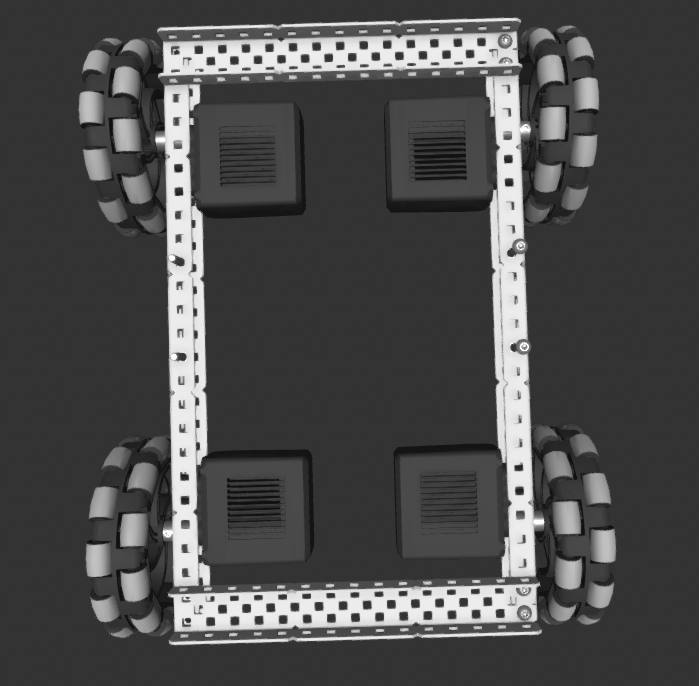
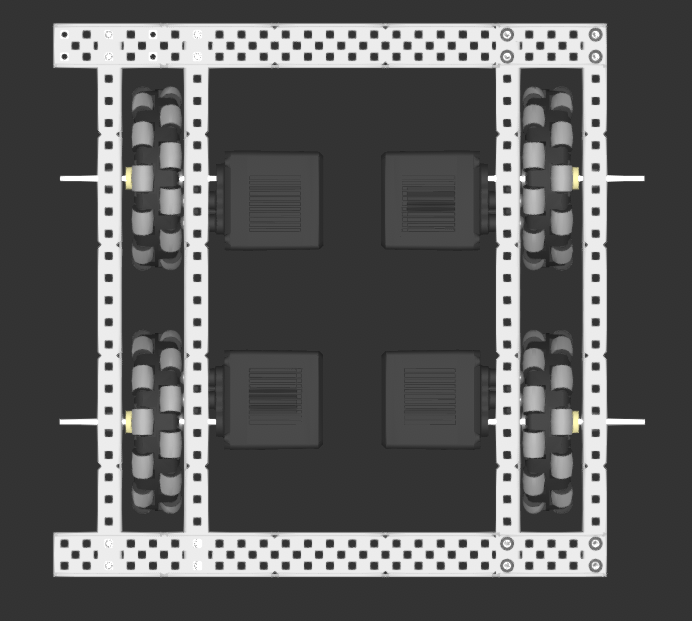
deploy: 9fec76319d22bc668e492e5dd11c9c1fd8bbfa05

Changed region(s): [[0.0607, 0.0, 0.9408, 0.9485]]

diff --git a/index.html b/index.html
@@ -28,7 +28,7 @@
 			onclick="document.getElementById('dialog-programming-0').showModal();"
 			data-set-completed="programming-0"
 		>
-			<h1>Programming the Drivetrain</h1>
+			<h1>Programming the Drivetrain</h1>
 		</article> <article
 			class="node"
 			id="node-building-0"
@@ -59,10 +59,16 @@
 	<form method="dialog">
 		<input class="close-button" type="submit" value="X" label="Close" />
 	</form>
-	<h1>Programming the Drivetrain</h1>
-	<p>In this document, we upload a basic program made with VexCode Pro V5 to a pre-built drivetrain to make the robot move with driver control! If you haven&#x27;t built the drivetrain already, refer to &#x27;Building a Drivetrain&#x27;.</p>
+	<h1>Programming the Drivetrain</h1>
+	<p>In this document, we upload a basic program to a pre-built drivetrain to make the robot move with driver control! If you haven&#x27;t built the drivetrain already, refer to &#x27;Building a Drivetrain&#x27;.</p>
 	<hr />
-	<div class="content"><h2>Step 1</h2>
+	<div class="content"><h2>Introduction</h2>
+<p>In this module, we program a drivetrain so that you can control it with the controller. We are going to do this with two different softwares: VEXCode Pro v5 (the official editor) and the VEX PROS API (an open-source, well-documented, highly functional API).</p>
+<p>If you plan on coding for a VEX competition and have some prior coding experience, I’d recommend skipping to the “PROS” section of this module, so that you know how to use that approach. In general, the PROS API definitely has more features and is more advanced than the official API. The documentation is also pretty impressive compared to the official editor.</p>
+<p>However, if you are a beginner to coding in general, I’d stick with the VEXCode Pro v5 approach for now. It’s a little easier to learn, and sets you up to learn the PROS API if you want to. Once you feel you can use the official editor a little bit, you can always come back to this module to learn the PROS approach (it’s really not that different at this level).</p>
+<p>Without further ado, let’s get going!</p>
+<h1>With VEXCode Pro v5</h1>
+<h2>Step 1</h2>
 <p>Gather materials:</p>
 <ul>
 <li>a computer with <a href="https://www.vexrobotics.com/vexcode/install/v5">VEXCode <strong><em>Pro</em></strong> v5</a> installed</li>
@@ -90,8 +96,17 @@ Select a port (doesn’t matter for now), then name the motor “left_motor” b
 <p><img src="img/programming/2-4-2.png" alt="motor configuration screen; renamed to “left_motor”" />
 <img src="img/programming/2-4-3.png" alt="left_motor connected to port 3, indicated with “3” icon" /></p>
 <p><br />
-Add another motor named “right_motor” with the same process outlined above. You should have two motors and a Controller in your “Robot Configuration” list.</p>
-<p><img src="img/programming/2-4-4.png" alt="Controller1, left_motor, and right_motor listed in “Robot Configuration”" /></p>
+Add another motor named “right_motor” with the same process outlined above. <strong>Reverse the direction of the motor</strong> by clicking the toggle switch (see image below). You should have two motors and a Controller in your “Robot Configuration” list.</p>
+<p><strong>If you have a 4 wheel drive, you have to configure two extra motors.</strong> Name them whatever you want; you will have to write code to match these names.</p>
+<p>It’s generally good practice to configure every motor individually rather than configuring a “motor group”; you can get more functionality.</p>
+<p><img src="img/programming/2-4-4.png" alt="motor reversed" />
+<img src="img/programming/2-4-5.png" alt="Controller1, left_motor, and right_motor listed in “Robot Configuration”" /></p>
+<h3>Coding Note: Why reverse motors?</h3>
+<p>On every v5 motor, you will see a plus icon with a circular direction indicated. This is the default positive orientation of the motor. When a positive percent value is passed to the motor, the motor will spin in the indicated direction by default.
+<img src="img/programming/2-4-6.png" alt="vex v5 motor with positive orientation indicator circled" /></p>
+<p>When you move a joystick forward, all wheels should spin in the same direction (forward). However, the positive orientations of the left wheels are actually in the <em>opposite direction</em> to the right wheels! This means that passing a positive percentage value to both sides will result in both sides spinning in opposite directions.</p>
+<p>We could just invert the percent value of the joystick (multiply by -1) and pass this inverted value to one side. However, a more elegant solution is to just “reverse” one side of the motors, thus reversing the positive orientation of one side. Now, a positive percentage value will spin both sides of the motor in the same direction (yay!).</p>
+<p>(exactly the same logic applies for negative percentage values as well)</p>
 <h2>Step 5</h2>
 <p>Locate the <code>main</code> function in the code. The function starts with <code>int main() {</code> and ends with a <code>}</code> character. Place your cursor inside the <code>main</code> function, after the <code>vexcodeInit();</code> command.</p>
 <p><img src="img/programming/2-5-1.png" alt="inside main() {, after vexcodeInit()" /></p>
@@ -104,6 +119,21 @@ Add another motor named “right_motor” with the same process outlined above. 
 <p>Your full <code>main.cpp</code> file should now look like this:</p>
 <table class="highlight-table"><tbody><tr><td class="hl-line" data-line="1">1</td><td>#<span class="hl-k">include</span> <span class="hl-s">"vex.h"</span></td></tr><tr><td class="hl-line" data-line="2">2</td><td></td></tr><tr><td class="hl-line" data-line="3">3</td><td><span class="hl-k">using</span> <span class="hl-k">namespace</span> vex;</td></tr><tr><td class="hl-line" data-line="4">4</td><td></td></tr><tr><td class="hl-line" data-line="5">5</td><td><span class="hl-k">float</span> drivetrain_dampening = <span class="hl-c">1</span>;</td></tr><tr><td class="hl-line" data-line="6">6</td><td></td></tr><tr><td class="hl-line" data-line="7">7</td><td><span class="hl-k">int</span> <span class="hl-en">main</span>() {</td></tr><tr><td class="hl-line" data-line="8">8</td><td>  <span class="hl-cmt">// Initializing Robot Configuration. DO NOT REMOVE!</span></td></tr><tr><td class="hl-line" data-line="9">9</td><td>  <span class="hl-en">vexcodeInit</span>();</td></tr><tr><td class="hl-line" data-line="10">10</td><td>  <span class="hl-k">while</span> (<span class="hl-c">true</span>) {</td></tr><tr><td class="hl-line" data-line="11">11</td><td>    left_motor.<span class="hl-en">spin</span>(forward, Controller1.Axis3.<span class="hl-en">position</span>() * drivetrain_dampening, percent); <span class="hl-cmt">//spin drivetrain</span></td></tr><tr><td class="hl-line" data-line="12">12</td><td>    right_motor.<span class="hl-en">spin</span>(forward, Controller1.Axis2.<span class="hl-en">position</span>() * drivetrain_dampening, percent);</td></tr><tr><td class="hl-line" data-line="13">13</td><td>    <span class="hl-en">wait</span>(<span class="hl-c">100</span>, msec);</td></tr><tr><td class="hl-line" data-line="14">14</td><td>  }</td></tr><tr><td class="hl-line" data-line="15">15</td><td>}</td></tr></tbody></table>
 <p>The bit inside the <code>main</code> function tells the robot motors to spin according to your <code>Controller1</code> axis values; a Controller “axis” is just a way to move the joystick (e.g. up and down on the left joystick, left to right on the right joystick, up and down on the right joystick, etc.)</p>
+<h3>Note: 4 wheel drive</h3>
+<p>If you have a 4 wheel drive, you just have to add a few more function calls to spin the other two motors.</p>
+<p>Suppose you have two other motors, in addition to the <code>left_motor</code> and <code>right_motor</code> configured above; let’s call them <code>left_back_motor</code> and <code>right_back_motor</code>.</p>
+<p>Inside the while loop, we have to tell the <code>left_back_motor</code> to spin:</p>
+<table class="highlight-table"><tbody><tr><td class="hl-line" data-line="1">1</td><td>left_back_motor.<span class="hl-en">spin</span>(forward, )</td></tr></tbody></table>
+<p>Since this a motor on the <em>left</em> side of the bot, we want to use the axis 3 value to control that motor; axis 3 is on the <em>left</em> side of the controller.</p>
+<p>The axis numbers are indicated in the Controller configuration:</p>
+<p><img src="img/programming/2-5-3.png" alt="axis numbers on controller configuration screen" /></p>
+<p>We add to our code:</p>
+<table class="highlight-table"><tbody><tr><td class="hl-line" data-line="1">1</td><td>left_back_motor.<span class="hl-en">spin</span>(forward, Controller1.Axis3.<span class="hl-en">position</span>() * drivetrain_dampening, percent);</td></tr></tbody></table>
+<p>A similar command for the right motor might look like:</p>
+<table class="highlight-table"><tbody><tr><td class="hl-line" data-line="1">1</td><td>right_back_motor.<span class="hl-en">spin</span>(forward, Controller1.Axis2.<span class="hl-en">position</span>() * drivetrain_dampening, percent);</td></tr></tbody></table>
+<p>Notice how we used axis 2 instead, since that axis is on the right side of the controller.</p>
+<p>For a 4 wheel drive, your full <code>main.cpp</code> file should look something like this:</p>
+<table class="highlight-table"><tbody><tr><td class="hl-line" data-line="1">1</td><td>#<span class="hl-k">include</span> <span class="hl-s">"vex.h"</span></td></tr><tr><td class="hl-line" data-line="2">2</td><td></td></tr><tr><td class="hl-line" data-line="3">3</td><td><span class="hl-k">using</span> <span class="hl-k">namespace</span> vex;</td></tr><tr><td class="hl-line" data-line="4">4</td><td></td></tr><tr><td class="hl-line" data-line="5">5</td><td><span class="hl-k">float</span> drivetrain_dampening = <span class="hl-c">1</span>;</td></tr><tr><td class="hl-line" data-line="6">6</td><td></td></tr><tr><td class="hl-line" data-line="7">7</td><td><span class="hl-k">int</span> <span class="hl-en">main</span>() {</td></tr><tr><td class="hl-line" data-line="8">8</td><td>  <span class="hl-cmt">// Initializing Robot Configuration. DO NOT REMOVE!</span></td></tr><tr><td class="hl-line" data-line="9">9</td><td>  <span class="hl-en">vexcodeInit</span>();</td></tr><tr><td class="hl-line" data-line="10">10</td><td>  <span class="hl-k">while</span> (<span class="hl-c">true</span>) {</td></tr><tr><td class="hl-line" data-line="11">11</td><td>    <span class="hl-cmt">//spin front motors</span></td></tr><tr><td class="hl-line" data-line="12">12</td><td>    left_motor.<span class="hl-en">spin</span>(forward, Controller1.Axis3.<span class="hl-en">position</span>() * drivetrain_dampening, percent); </td></tr><tr><td class="hl-line" data-line="13">13</td><td>    right_motor.<span class="hl-en">spin</span>(forward, Controller1.Axis2.<span class="hl-en">position</span>() * drivetrain_dampening, percent);</td></tr><tr><td class="hl-line" data-line="14">14</td><td></td></tr><tr><td class="hl-line" data-line="15">15</td><td>    <span class="hl-cmt">//spin back motors</span></td></tr><tr><td class="hl-line" data-line="16">16</td><td>    left_back_motor.<span class="hl-en">spin</span>(forward, Controller1.Axis3.<span class="hl-en">position</span>() * drivetrain_dampening, percent);</td></tr><tr><td class="hl-line" data-line="17">17</td><td>    right_back_motor.<span class="hl-en">spin</span>(forward, Controller1.Axis2.<span class="hl-en">position</span>() * drivetrain_dampening, percent);</td></tr><tr><td class="hl-line" data-line="18">18</td><td>    <span class="hl-en">wait</span>(<span class="hl-c">100</span>, msec);</td></tr><tr><td class="hl-line" data-line="19">19</td><td>  }</td></tr><tr><td class="hl-line" data-line="20">20</td><td>}</td></tr></tbody></table>
 <h2>Step 6</h2>
 <p>Now the fun bit – uploading your code and testing!</p>
 <ul>
@@ -168,7 +198,7 @@ Add another motor named “right_motor” with the same process outlined above. 
 </html>
 <h3>Note: Choosing screw length for motors</h3>
 <html><div class="row-container">
-  <div><p><img alt="max screw length for motor" src="img/building/1-2-3.png"></p></div>
+  <div><p><img src="img/building/1-2-3.png" alt="max screw length for motor"></p></div>
 </div>
 </html>
 <p>Choose a screw that will have enough room to bury deep in the motor, but not too deep. Try taking a long screw, like the one in the image at right, and spin it into a motor screw slot with your hand only. As a rule of thumb, as soon as you have to use your screwdriver to drive the motor screw, you are probably going too far (or the screw thread is bad). The image at right shows the maximum amount that the screw should go into the motor.</p>
@@ -190,7 +220,7 @@ Add another motor named “right_motor” with the same process outlined above. 
 </ol>
 <p>The wheel should be “sandwiched” by collars. This ensures that the wheel can’t move along the axle when the motor spins. One collar should be separated from the C-channel by a washer. This reduces metal-on-metal contact, thereby reducing friction.</p>
 <html><div class="row-container">
-  <div><p><img alt="axle with motor and wheel" src="img/building/1-4-1.png"></p></div>
+  <div><p><img src="img/building/1-4-1.png" alt="axle with motor and wheel"></p></div>
 </div>
 </html>
 <h2>Step 5</h2>
@@ -203,7 +233,7 @@ Add another motor named “right_motor” with the same process outlined above. 
 <p>Turn on the CORTEX and controller. After the controller connects to the CORTEX with a wire, disconnect the wire connecting the controller and CORTEX. The controller should automatically switch to a wireless connection with the CORTEX.</p>
 <html><div class="row-container">
   <div><p><img src="img/building/1-6-1.png" alt="controller screen indicating that the controller is looking for a cortex"></p><p>The controller is looking for a CORTEX.</p></div>
-  <div><p><img src="img/building/1-6-2.png" alt="controller screen indicating that the controller is wired to the cortex"></p><p>The controller is wired to the CORTEX.</p></div>
+  <div><p><img alt="controller screen indicating that the controller is wired to the cortex" src="img/building/1-6-2.png"></p><p>The controller is wired to the CORTEX.</p></div>
   <div><p><img src="img/building/1-6-3.png" alt="controller screen indicating that the controller is wirelessly connected to the cortex"></p><p>The controller is wirelessly controlled to the CORTEX, via the radio. This is usually how the controller should be set up.</p></div>
 </div>
 </html>
@@ -214,7 +244,7 @@ Add another motor named “right_motor” with the same process outlined above. 
 <p>Refer to the images below for a quick controller overview. Use the reset button if the controller ever freezes up.</p>
 <html><div class="row-container">
   <div><img src="img/building/1-7-2.png" alt="on the front of the controller: arrow buttons in the bottom left move along menus. the middle power button can be pressed to go back or long pressed to turn off. the A button is used to select and the B button is used to go back."></div>
-  <div><img alt="on the back of the controller: there is a hole that contains a reset button which can be pressed with a screwdriver" src="img/building/1-7-3.png"></div>
+  <div><img src="img/building/1-7-3.png" alt="on the back of the controller: there is a hole that contains a reset button which can be pressed with a screwdriver"></div>
 </div>
 </html>
 </div>
@@ -236,11 +266,11 @@ Add another motor named “right_motor” with the same process outlined above. 
 		<input class="close-button" type="submit" value="X" label="Close" />
 	</form>
 	<h1>Building a Drivetrain</h1>
-	<p>In this module, we build a 2 wheel drive, tank-style drivetrain. This is the standard way to build a drivetrain that you will probably use in competition.</p>
+	<p>In this module, we build a 4 wheel drive, tank-style drivetrain. This is the standard way to build a drivetrain that you will probably use in competition.</p>
 	<hr />
 	<div class="content"><h2>What you will build</h2>
-<p>The final product will look something like this:
-<img src="img/building/2-0-1.png" alt="final drivetrain" /></p>
+<p>The final product will look something like this:</p>
+<p><img src="img/building/2-8-1.png" alt="final drivetrain, top view" /></p>
 <h2>Step 1</h2>
 <p>Gather the necessary parts:</p>
 <ul>
@@ -249,15 +279,20 @@ Add another motor named “right_motor” with the same process outlined above. 
 <li>VEX Controller</li>
 <li>VEX Radio</li>
 <li>VEX Wires (x4)</li>
-<li>decently long C-channels (at least 25 holes long) (x2)</li>
-<li>other C-channels (at least 15 holes long) (x2)</li>
-<li>a 5-wide (at least 15 holes long, same length as the “other C-channels” above)</li>
+<li>decently long C-channels (at least 25 holes long) (x6)
+<ul>
+<li>at least 4 of these should be of exactly the same length</li>
+</ul>
+</li>
+<li>a 5-wide (at least 15 holes long, same length as the C-channels above)</li>
+<li>shorter C channels (5 holes long) (x4)</li>
 <li>battery and battery cable</li>
 <li>toolbox
 <ul>
 <li>flat bearing</li>
 <li>shaft collars</li>
 <li>screws</li>
+<li>standoffs (3/4 in) (x4)</li>
 </ul>
 </li>
 </ul>
@@ -266,34 +301,41 @@ Add another motor named “right_motor” with the same process outlined above. 
 <p><img src="img/building/2-1-1.png" alt="15 hole C channel with every 5 holes marked" /></p>
 <p>For this activity, make sure you have two pairs of C-channels with the same length. (You will eventually make a rectangular structure for the drivetrain)</p>
 <h2>Step 2</h2>
-<p>Attach a motor to one of the longer C channels. Place an omniwheel on this motor. You can follow the instructions in the previous module titled “Putting on a Motor”. Be sure to leave enough space for a future structural element.</p>
-<p><img src="img/building/2-2-1.png" alt="motor with axle on C channel" />
-As in the picture above, your motor axle should be at least the 4th hole from the last center hole. You will eventually place a perpendicular C-channel with the extra space you leave (see image below).</p>
-<p><img src="img/building/2-2-2.png" alt="motor with axle on C channel connected to another C channel" /></p>
-<p>Remember to place an omniwheel on the axle (not a small traction wheel).</p>
-<p><img src="img/building/2-2-3.png" alt="motor on C channle with omniwheel" /></p>
+<p>Attach a motor to one of the longer C channels. Place an omniwheel on this motor. You can follow the instructions in the previous module titled “Putting on a Motor”. Be sure to leave enough space for a future structural element. Also be sure to screw in the motor before putting anything else in. As in the picture below, your motor axle should be at least the 7th hole from the last center hole. Place the bearing flat so that the most of the motor faces inside the robot, rather than outside.</p>
+<p><img src="img/building/2-2-1.png" alt="axles on C channel; 7 holes from end" /></p>
+<p><img src="img/building/2-2-2.png" alt="axles with bearings on other side of C channel" /></p>
+<p>Remember to place omniwheels on the axles (not small traction wheels).</p>
+<p><img src="img/building/2-2-3.png" alt="motors on C channle with omniwheels" /></p>
 <h2>Step 3</h2>
-<p>Place another wheel on the same C channel. Remember that the motor axle should be at least the 4th hole from the last center hole on the C channel.</p>
-<p><img src="img/building/2-3-1.png" alt="two axles on the 4th hole away from both edges" />
-<img src="img/building/2-3-2.png" alt="two wheels on the same C channel - front view" />
-<img src="img/building/2-3-3.png" alt="two wheels on the same C channel - 3D view" /></p>
+<p>When we installed a motor in the last module (‘Installing a Motor’), the axle had one point of support. That was okay, since the wheel didn’t have to support any load.</p>
+<p>Now, since your wheels are supporting the weight of your robot, you need <em><strong>two</strong></em> points of support for your axles. This is a general rule in VEX: always support your axles in two places (at least). Only one point of support causes undue friction and stress on the axle.</p>
+<p>Add these parts to the axle in the following order:</p>
+<ol>
+<li>large spacer (3/8 in)</li>
+<li>washer</li>
+<li>C channel (same length as the other one, 25 holes)</li>
+</ol>
+<p>Then, add the short C channel (5 holes long) to both sides of the assembly. It should look like this from the top:</p>
+<p><img src="img/building/2-3-1.png" alt="top view, almost finished wheel set" /></p>
+<p><img src="img/building/2-3-2.png" alt="side view" /></p>
+<p>Finish the assembly off with a washer and collar at the end of both axles. As in the previous module, make sure the washer is between the collar and the C channel (to reduce friction).</p>
 <h2>Step 4</h2>
-<p>Make another set of wheels. You will connect these two sets in the next step.</p>
-<p><img src="img/building/2-4-1.png" alt="two C channels; each C channel with 2 motor-powered wheels" /></p>
+<p>Make another set of wheels (repeat Step 3). You will connect these two sets in the next step. Just make sure to put the short C channels on the opposite side as before, since this assembly will be rotated upside down to match with the other one.</p>
+<p><img src="img/building/2-4-1.png" alt="two sets of wheels" /></p>
 <h2>Step 5</h2>
-<p>Connect the two sets of wheels with C channels. The connecting C channels should be at least 15 holes wide.</p>
-<p><img src="img/building/2-5-1.png" alt="4 motors connected with 2 C channels" /></p>
+<p>Connect the two sets of wheels with C channels. The connecting C channels should be at least 25 holes wide. <strong>Make sure exactly two holes sticks out of the bot</strong> (for alignment reasons).</p>
+<p><img src="img/building/2-5-1.png" alt="4 motors connected with C channels, top view" /></p>
+<p><img src="img/building/2-5-2.png" alt="4 motors connected with C channels, 3D view" /></p>
 <h2>Step 6</h2>
-<p>Now, we can place the CORTEX on the robot. Find a 5-wide C-channel at least as long as the connecting pieces you attached in the last step. Connect the CORTEX to the 5-wide with 4 screws.</p>
+<p>Now, we can place the CORTEX on the robot. Get the 5-wide C channel exactly 15 holes wide. Connect the CORTEX to the 5-wide with 4 screws.</p>
 <p><img src="img/building/2-6-1.png" alt="robot brain screwed to 5 wide C channel" /></p>
 <h2>Step 7</h2>
-<p>Screw 4 standoffs to the bottom of the 5-wide. The standoffs enable the CORTEX to face upward instead of downward when the CORTEX is connected to the robot.</p>
+<p>Screw 4 standoffs to the bottom of the 5-wide. The standoffs enable the CORTEX to face upward instead of downward when the CORTEX is connected to the robot. Also make sure the standoffs are at least 3/4 in long; this assembly needs to “rise” above the motors.</p>
 <p><img src="img/building/2-7-1.png" alt="robot brain screwed to 5 wide C channel with 4 standoffs on each corner" /></p>
 <h2>Step 8</h2>
 <p>Screw this 5 channel to the robot.</p>
 <p><img src="img/building/2-8-1.png" alt="final drivetrain, top view" /></p>
-<p>The below picture is taken from the robot’s underside.</p>
-<p><img src="img/building/2-8-2.png" alt="final drivetrain, bottom view" /></p>
+<p>Congrats, you have built a (hopefully) functional drivetrain! Move on to “Coding your Drivetrain” to enable it to move with your controller!</p>
 </div>
 	<hr />
 	<div class="completed-container">
